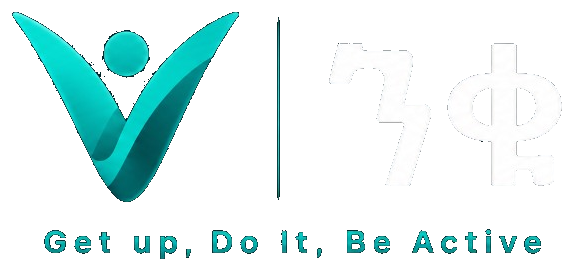
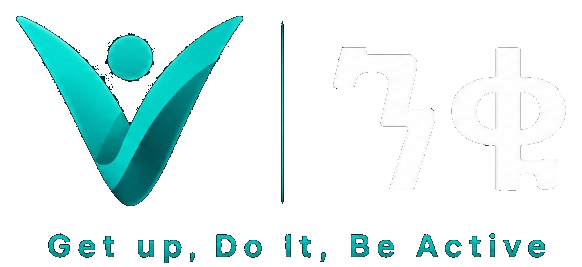
logo5

diff --git a/src/components/BrandLogo.jsx b/src/components/BrandLogo.jsx
@@ -1,7 +1,6 @@
 /**
- * Brand mark for web chrome.
- * - lockup: icon + ንቁ (sidebar / header) — transparent PNG, sits on a dark chip so it works in light & dark
- * - icon: rounded app icon only (tight spaces)
+ * Brand mark for web chrome — icon + ንቁ + slogan.
+ * No heavy frame — transparent lockup blends with the sidebar.
  */
 export default function BrandLogo({
   variant = 'lockup',
@@ -18,14 +17,10 @@ export default function BrandLogo({
   }
 
   return (
-    <div
-      className={`inline-flex max-w-full items-center rounded-xl bg-[#070f14] px-2.5 py-1.5 ring-1 ring-white/5 ${className}`}
-    >
-      <img
-        src="/brand-lockup-nav.png?v=nav"
-        alt="ንቁ"
-        className="h-8 w-auto max-w-[10.5rem] object-contain object-left sm:h-9 sm:max-w-[11.5rem]"
-      />
-    </div>
+    <img
+      src="/brand-lockup.png?v=slogan"
+      alt="ንቁ — Get up, Do It, Be Active"
+      className={`h-14 w-auto max-w-[15rem] object-contain object-left sm:h-[3.75rem] sm:max-w-[16rem] ${className}`}
+    />
   );
 }

diff --git a/src/layouts/OwnerLayout.jsx b/src/layouts/OwnerLayout.jsx
@@ -185,7 +185,7 @@ export default function OwnerLayout() {
             <button onClick={() => setSidebarOpen(false)} className="absolute right-4 top-4 text-slate-400 hover:text-slate-200 dark:text-app-muted dark:hover:text-app-text-strong">
               <X className="h-6 w-6" />
             </button>
-            <div className="mb-6 mt-1">
+            <div className="mb-7 mt-1">
               <BrandLogo />
             </div>
             <nav className="flex-1 space-y-1">
@@ -196,7 +196,7 @@ export default function OwnerLayout() {
       )}
 
       <aside className={`fixed inset-y-0 left-0 z-30 hidden w-64 flex-col border-r border-slate-200 p-6 lg:flex ${sidebarSurface}`}>
-        <div className="mb-6">
+        <div className="mb-7">
           <BrandLogo />
         </div>
         <nav className="flex-1 space-y-1">

diff --git a/src/pages/auth/Login.jsx b/src/pages/auth/Login.jsx
@@ -61,8 +61,8 @@ export default function Login() {
   };
 
   const formCard = (
-    <div className="relative w-full max-w-md overflow-hidden rounded-2xl border border-app-border-subtle bg-app-raised p-6 shadow-xl animate-in fade-in slide-in-from-bottom-2 duration-300 sm:p-8">
-      <div className="absolute inset-x-0 top-0 h-[3px] bg-teal-600" />
+    <div className="relative w-full max-w-md overflow-hidden rounded-2xl border border-white/5 bg-app-raised/90 p-6 shadow-2xl shadow-black/25 backdrop-blur-sm animate-in fade-in slide-in-from-bottom-2 duration-300 sm:p-8">
+      <div className="absolute inset-x-0 top-0 h-[2px] bg-gradient-to-r from-transparent via-teal-500/80 to-transparent" />
 
       <LoginBrandPanel />
       <p className="mb-6 text-center text-sm text-app-muted">{t('auth.signInSubtitle')}</p>

diff --git a/src/components/auth/LoginBrandPanel.jsx b/src/components/auth/LoginBrandPanel.jsx
@@ -1,10 +1,14 @@
+/**
+ * Login brand — transparent lockup (no black app-icon plate).
+ * Blends into the raised card; slogan included under the mark.
+ */
 export default function LoginBrandPanel() {
   return (
-    <div className="mb-6 flex flex-col items-center text-center animate-in fade-in duration-500">
+    <div className="mb-5 flex flex-col items-center text-center animate-in fade-in duration-500">
       <img
-        src="/brand-mark.png?v=blend"
-        alt="ንቁ"
-        className="h-24 w-24 object-contain sm:h-28 sm:w-28"
+        src="/brand-lockup.png?v=login-blend"
+        alt="ንቁ — Get up, Do It, Be Active"
+        className="h-[4.5rem] w-auto max-w-[15.5rem] object-contain object-center sm:h-20 sm:max-w-[17rem]"
       />
     </div>
   );

diff --git a/src/layouts/AdminLayout.jsx b/src/layouts/AdminLayout.jsx
@@ -141,7 +141,7 @@ export default function AdminLayout() {
             <button type="button" onClick={() => setSidebarOpen(false)} className="absolute right-4 top-4 text-slate-400">
               <X className="h-6 w-6" />
             </button>
-            <div className="mb-6 mt-1">
+            <div className="mb-7 mt-1">
               <BrandLogo />
             </div>
             <nav className="mb-auto space-y-1">
@@ -162,7 +162,7 @@ export default function AdminLayout() {
       )}
 
       <aside className={`fixed inset-y-0 left-0 z-30 hidden w-64 flex-col border-r border-slate-200 p-6 lg:flex ${sidebarSurface}`}>
-        <div className="mb-6">
+        <div className="mb-7">
           <BrandLogo />
         </div>
         <nav className="space-y-1">
